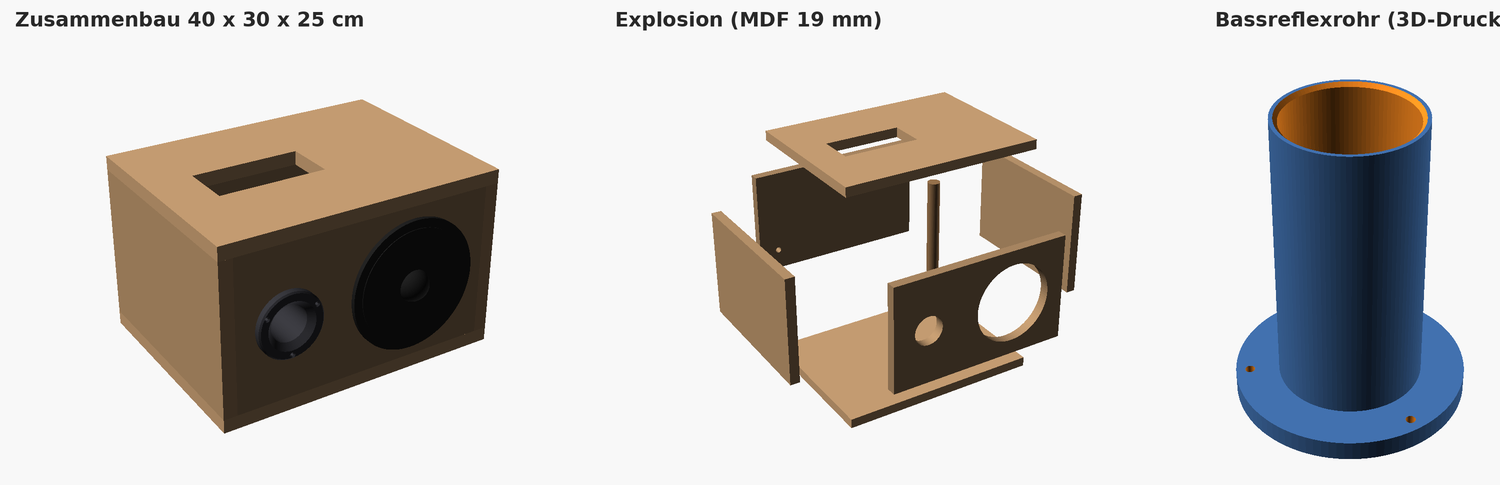
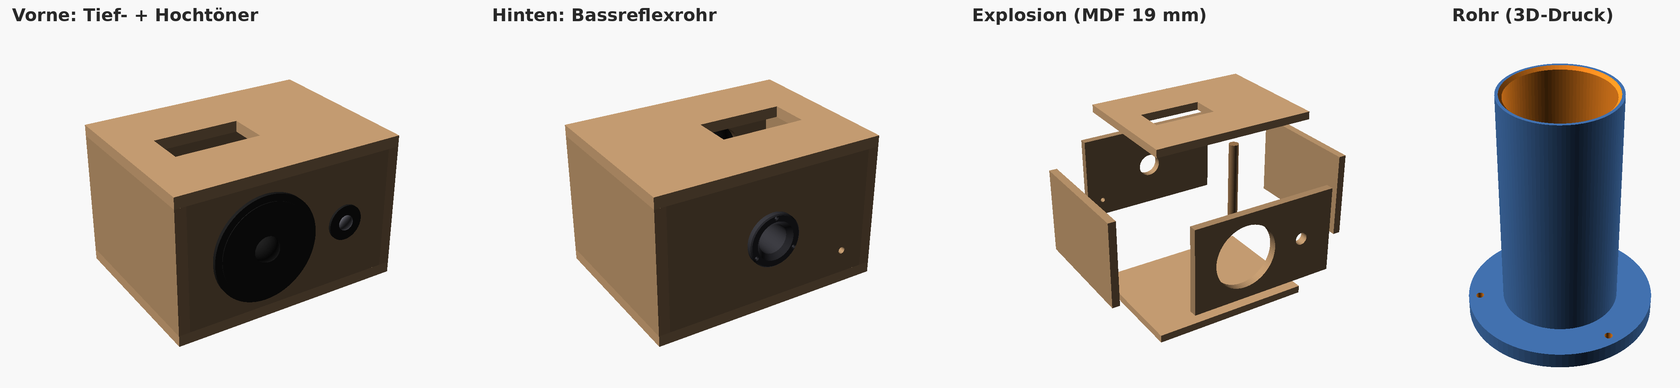
Add tweeter on the right, move bass reflex port to rear panel
Woofer moves left (center 150 mm) to make room for a tweeter on the
right (cutout 30.2 mm from the sketch, verify against datasheet).
The port now sits centered in the rear panel; tuning stays ~45 Hz.
Brace moved to clear the new layout. README gains crossover notes
and why the port goes in the back rather than the top.

Claude-Session: https://claude.ai/code/session_01BoBJRLv7V6suyTzUotHVaK

diff --git a/lautsprecherbox/README.md b/lautsprecherbox/README.md
@@ -1,4 +1,4 @@
-# Lautsprecherbox 40 × 30 cm – Tieftöner Ø 18 cm, Bassreflex
+# Lautsprecherbox 40 × 30 cm – 2-Wege: Tieftöner Ø 18 cm + Hochtöner, Bassreflex hinten
 
 Ausgearbeitet nach der Handskizze. Fehlende Maße sind festgelegt, und Holz, Plattenstärke
 und Bassreflex sind so gewählt, dass ein typischer 18-cm-Tieftöner (6,5–7") gut klingt.
@@ -12,7 +12,8 @@ und Bassreflex sind so gewählt, dass ein typischer 18-cm-Tieftöner (6,5–7") 
 | **Holz** | **MDF, 19 mm** (für eine Box, die oft getragen wird oder draußen steht: Birke-Multiplex 18 mm) |
 | **Außenmaße** | 40 cm breit × 30 cm tief × **25 cm hoch** |
 | **Innenvolumen** | 20,1 L brutto, **ca. 18,5 L netto** |
-| **Bauart** | Bassreflex, Rohr Ø 50 mm innen × 120 mm, Abstimmung **ca. 45 Hz** |
+| **Bestückung** | Tieftöner Ø 18 cm links, **Hochtöner rechts** |
+| **Bauart** | Bassreflex, **Rohr in der Rückwand**, Ø 50 mm innen × 120 mm, Abstimmung **ca. 45 Hz** |
 | **Versteifung** | 1 Rundholz Buche Ø 25 mm zwischen Deckel und Boden |
 | **Gewicht** | ca. 7 kg (MDF) |
 
@@ -25,8 +26,9 @@ und Bassreflex sind so gewählt, dass ein typischer 18-cm-Tieftöner (6,5–7") 
 | Deckel/Boden | „2 × 30 × 40“ | 2 × 400 × 300 mm |
 | **Höhe** | **fehlte** | **25 cm**: Der Ø-18-cm-Korb sitzt mit je 16 mm Rand auf der Front (passt zu deinen „1,5“-Markierungen) und das Volumen liegt mit ~18,5 L im guten Bereich für einen 18-cm-Tieftöner |
 | Wandstärke | 1,5 cm | **19 mm** (Begründung unten) |
-| Tieftöner | Ø 18 cm, Ausschnitt 155 mm | Mitte 270 mm von links, mittig in der Höhe |
-| Kleiner Kreis vorne | ohne Maß | **Bassreflexrohr**, Mitte 90 mm von links, mittig in der Höhe |
+| Tieftöner | Ø 18 cm, Ausschnitt 155 mm | **links**: Mitte 150 mm von links, mittig in der Höhe |
+| Hochtöner | „Ø 30,20 mm“, rechts | **rechts**: Ausschnitt Ø 30,2 mm, Mitte 300 mm von links, gleiche Höhe wie der Tieftöner |
+| Bassreflexrohr | „hinten oder oben“ | **hinten**, mittig in der Rückwand (Begründung unten) |
 | Schraffiertes Feld auf dem Deckel | ohne Maß | Ausschnitt für das Verstärker-/Bedienmodul, **Platzhalter 150 × 70 mm**, an dein Modul anpassen |
 | Rückwand | – | Bohrung Ø 12 mm für die Netzteil-/Klinkenbuchse, 60 mm von links und 60 mm von unten |
 
@@ -74,22 +76,41 @@ Auf der einzelnen Frontplatte (362 × 212) musst du von jedem Maß 19 mm abziehe
 
 | Was | Ø | x (von links) | z (von unten) | Platte |
 |---|---|---|---|---|
-| Tieftöner-Ausschnitt | 155 mm | 270 mm | 125 mm | Front |
-| Bassreflexrohr | 57 mm (Lochsäge) | 90 mm | 125 mm | Front |
+| Tieftöner-Ausschnitt | 155 mm | 150 mm | 125 mm | Front |
+| Hochtöner-Ausschnitt | 30,2 mm ⚠ | 300 mm | 125 mm | Front |
+| Bassreflexrohr | 57 mm (Lochsäge) | 200 mm (genau mittig) | 125 mm | Rückwand |
+| Anschluss | 12 mm | von hinten gesehen 60 mm von der **rechten** Kante | 60 mm | Rückwand |
 | Bedienfeld | 150 × 70 mm | Mitte 140 mm | Mitte 150 mm von vorne | Deckel |
-| Anschluss | 12 mm | 60 mm | 60 mm | Rückwand |
-| Strebe | Ø 25 | 310 mm | 200 mm von vorne | Deckel ↔ Boden |
+| Strebe | Ø 25 | 330 mm | 200 mm von vorne | Deckel ↔ Boden |
+
+⚠ Die 30,2 mm habe ich aus deiner Skizze übernommen. **Vor dem Bohren mit dem Einbauausschnitt
+im Datenblatt deines Hochtöners vergleichen**, denn jeder Hochtöner ist anders.
 
 Den Tieftöner-Ausschnitt **vor dem Zusammenbau** sägen (Stichsäge oder Kreisschneider an
 der Oberfräse). Den Ausschnitt am besten mit dem echten Chassis oder dessen Datenblatt
 gegenprüfen, denn der Korb muss ringsum mindestens 5 mm aufliegen.
+
+## Hochtöner
+
+- **Geschlossene Rückseite:** Der Hochtöner sitzt im selben Gehäuse wie der Tieftöner. Ist er hinten offen, drückt der Bass seine Membran mit, dann braucht er eine eigene kleine Kammer. Ein Hochtöner im eigenen Gehäuse (Hochton-Box) ist bereits geschlossen und passt.
+- **Frequenzweiche ist Pflicht:** Ohne Weiche bekommt der Hochtöner den vollen Bass und geht kaputt. Die einfachste Lösung ist ein **bipolarer Folienkondensator (MKT/MKP)** in Reihe vor dem Hochtöner, kein normaler Elko. Bei 8 Ω nimmst du 4,7 µF, bei 4 Ω 10 µF. Das ergibt jeweils eine Trennung bei ca. 4 kHz. Viele Hochtöner-Gehäuse haben so einen Kondensator schon im Kabel, schau nach.
+- **Besser klingt eine fertige 2-Wege-Weiche** (12 dB, ca. 3–4 kHz, passend zur Impedanz). Sie schützt den Hochtöner zuverlässiger und nimmt dem Tieftöner die Höhen ab.
+- **Ist der Hochtöner zu laut?** Ein Widerstand (2–4 Ω, 5 W) in Reihe macht ihn leiser.
+- **Polung:** Beim Anschließen auf + und − achten. Klingt es dünn, die Polung des Hochtöners testweise tauschen.
+
+## Warum das Rohr hinten und nicht oben?
+
+- Oben sitzt schon das Bedienfeld, und in ein Rohr nach oben fallen Staub, Krümel und Getränke.
+- In der Rückwand ist das Rohr unsichtbar, und innen bleibt genug Abstand zu beiden Chassis.
+- **Abstand zur Wand:** Die Box mit **mindestens 15–20 cm** Abstand zur Wand aufstellen. Steht sie näher, dröhnt der Bass. Muss sie direkt an der Wand stehen, das Rohr mit einem Schaumstoffstopfen verschließen, dann arbeitet sie wie eine geschlossene Box.
+- Oben ginge auch: Im SCAD lässt sich das Rohr versetzen, dann aber nicht über das Bedienfeld oder die Strebe.
 
 ## Bassreflexrohr (3D-Druck)
 
 `bassreflexrohr.stl`: 90 × 90 × 120 mm, innen Ø 50 mm, vorne mit einem Trichter (45°), der Strömungsgeräusche verringert.
 
 - **Drucken:** Flansch nach unten aufs Bett, **ohne Stützen**, PLA oder PETG, 0,2 mm Schichten, 3 Perimeter, 20 % Infill
-- **Einbau:** von vorne durch das 57-mm-Loch stecken, mit Silikon oder Heißkleber abdichten und mit 3 Senkkopfschrauben 3,5 × 16 festschrauben
+- **Einbau:** von hinten durch das 57-mm-Loch in der Rückwand stecken, mit Silikon oder Heißkleber abdichten und mit 3 Senkkopfschrauben 3,5 × 16 festschrauben
 - **Abstimmung:** 120 mm ergeben ca. **45 Hz** bei 18,5 L. Ein **kürzeres** Rohr stimmt **höher** ab (weniger Tiefbass, mehr Punch), ein längeres tiefer. Lieber zu lang drucken und mit der Säge kürzen
 - **Alternative ohne Drucker:** HT-Rohr DN 50 aus dem Baumarkt (innen ~46 mm), ca. **100 mm** lang
 
@@ -102,8 +123,8 @@ gegenprüfen, denn der Korb muss ringsum mindestens 5 mm aufliegen.
 
 1. **Verleimen:** Holzleim D3 plus Schrauben 4 × 50. Bei MDF **immer vorbohren** (3 mm) und mindestens 3 cm von den Ecken wegbleiben, sonst platzt die Kante. Mit Zwingen pressen.
 2. **Reihenfolge:** Boden → Seiten → Rückwand → Strebe → Front → Deckel. Kabel und Dämmung gehen später durch das Tieftöner-Loch und das Bedienfeld rein.
-3. **Luftdicht:** Innen alle Fugen mit Acryl abdichten, ebenso die Kabeldurchführung. Für den Tieftöner Dichtband unter den Korb kleben. **Test:** Rohr zuhalten, die Membran vorsichtig eindrücken und kurz halten. Der Gegendruck muss bleiben. Gibt die Membran langsam nach, ist die Box irgendwo undicht.
-4. **Dämmung:** Rückwand, eine Seite und den Deckel innen mit 2–3 cm Polyesterwatte (z. B. Sonofil) auskleiden, **nicht vollstopfen**. Vor dem inneren Rohrende ~5 cm frei lassen.
+3. **Luftdicht:** Innen alle Fugen mit Acryl abdichten, ebenso die Kabeldurchführung. Unter Tief- und Hochtöner Dichtband kleben. **Test:** Rohr zuhalten, die Membran vorsichtig eindrücken und kurz halten. Der Gegendruck muss bleiben. Gibt die Membran langsam nach, ist die Box irgendwo undicht.
+4. **Dämmung:** Rückwand (ums Rohr herum aussparen), eine Seite und den Deckel innen mit 2–3 cm Polyesterwatte (z. B. Sonofil) auskleiden, **nicht vollstopfen**. Vor dem inneren Rohrende ~5 cm frei lassen.
 5. **Chassis befestigen:** Mit **Einschlagmuttern M4** statt Holzschrauben, denn MDF-Gewinde nudeln beim zweiten Ausbau aus.
 6. **Oberfläche:** Kanten mit 3 mm Radius runden. MDF-Kanten vorher mit Grundierfüller (oder verdünntem Leim) versiegeln, sonst saugen sie den Lack auf. Unten Gummifüße anbringen.
 7. **Verstärkermodul:** Von innen gegen den Deckel schrauben und mit einer Dichtung abdichten. Wird es warm, braucht es einen Kühlkörper nach außen.
@@ -113,12 +134,12 @@ gegenprüfen, denn der Korb muss ringsum mindestens 5 mm aufliegen.
 Diese Stellen in der Skizze konnte ich nicht sicher lesen. Sag Bescheid, dann passe ich das Modell an:
 
 - **„Ø KL …“** (ca. 11,4 mm?): Ist das die Klinken- oder Netzteilbuchse? Im Modell sitzt dafür jetzt eine Ø-12-mm-Bohrung in der Rückwand.
-- **„Ø 30,20 mm“**: ein Hochtöner, ein Poti oder etwas anderes? Ein Hochtöner bräuchte zusätzlich eine Frequenzweiche.
+- **Hochtöner:** Welches Modell und welche Impedanz (4 oder 8 Ω)? Dann prüfe ich Ausschnitt und Weiche.
 - **Kreuzlinien auf der Seitenwand**: als Versteifung habe ich die Strebe eingebaut. Falls dort ein Griff hin soll, ändere ich das.
 - **Modell des Tieftöners und des Verstärkermoduls**: Mit dem Datenblatt kann ich Volumen, Rohrlänge und Bedienfeld genau darauf abstimmen.
 
 ## Dateien
 
-- `lautsprecherbox.scad` – parametrisches Modell (OpenSCAD). Ansichten: `zusammenbau`, `explosion`, `rohr`, `front`. Zuschnitte, Volumen und Abstimmung erscheinen in der Konsole.
+- `lautsprecherbox.scad` – parametrisches Modell (OpenSCAD). Ansichten: `zusammenbau`, `explosion`, `rohr`, `front`, `rueckwand`. Zuschnitte, Volumen und Abstimmung erscheinen in der Konsole.
 - `bassreflexrohr.stl` – fertige Druckdatei für das Rohr
 - `vorschau.png` – Vorschau
